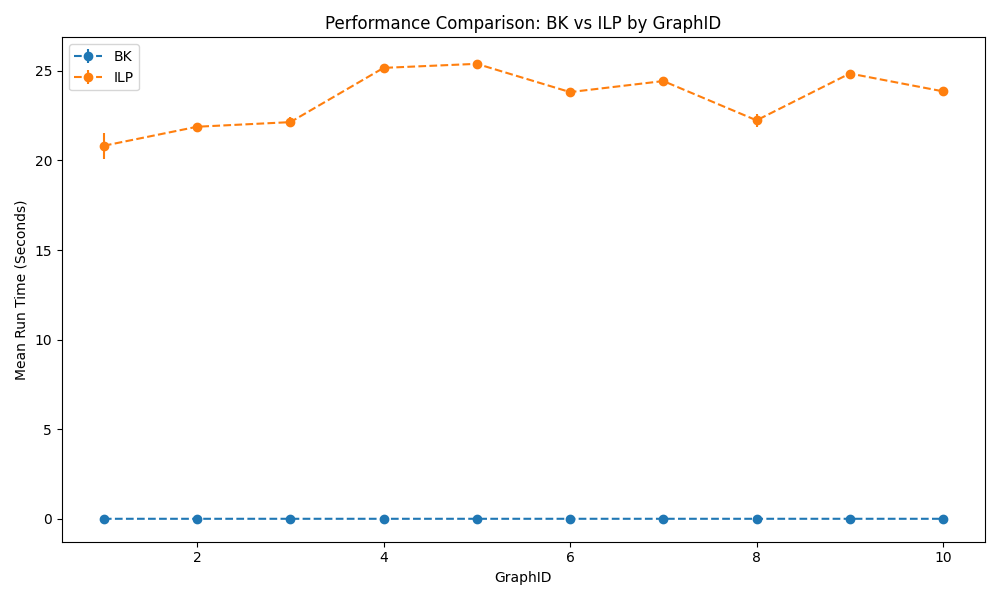
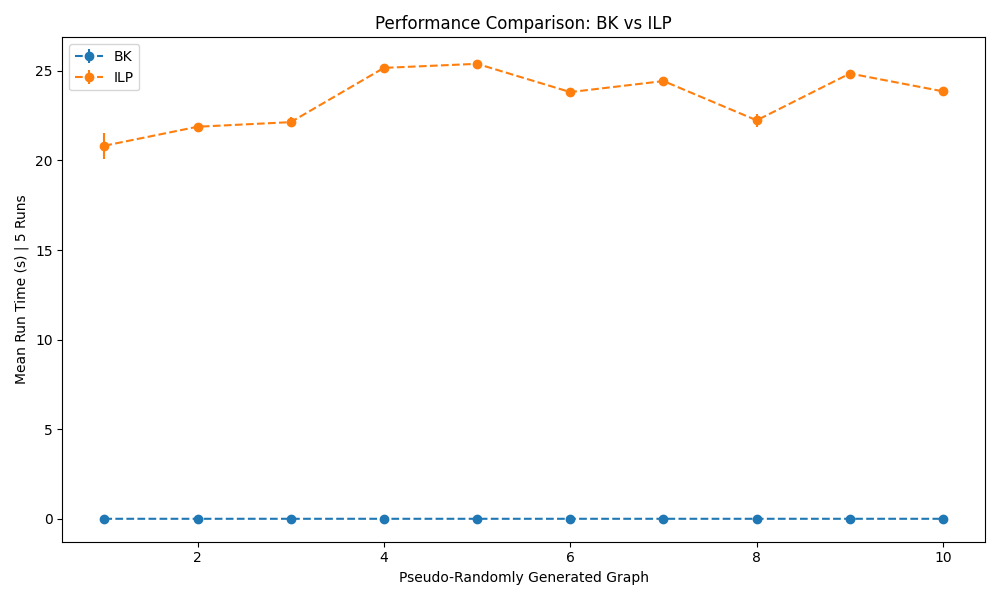
cleaned up

diff --git a/HW7/plot/plot_part2.py b/HW7/plot/plot_part2.py
@@ -1,14 +1,10 @@
 #!/usr/bin/env python3
 import pandas as pd
 import matplotlib.pyplot as plt
-
-# Read the CSV file (make sure that 'data.csv' is in your working directory)
 df = pd.read_csv('part2_data.csv')
 
-# Group the data by GraphID and Method to calculate the mean and standard deviation of run times
 grouped = df.groupby(['GraphID', 'Method'])['TimeSeconds'].agg(['mean', 'std']).reset_index()
 
-# Plot the results using error bars
 plt.figure(figsize=(10, 6))
 methods = grouped['Method'].unique()
 for method in methods:
@@ -16,9 +12,9 @@ for method in methods:
     plt.errorbar(sub_df['GraphID'], sub_df['mean'], yerr=sub_df['std'],
                  marker='o', linestyle='--', label=method)
 
-plt.xlabel('GraphID')
-plt.ylabel('Mean Run Time (Seconds)')
-plt.title('Performance Comparison: BK vs ILP by GraphID')
+plt.xlabel('Pseudo-Randomly Generated Graph')
+plt.ylabel('Mean Run Time (s) | 5 Runs')
+plt.title('Performance Comparison: BK vs ILP')
 plt.legend()
 plt.tight_layout()
 # plt.show()

diff --git a/HW7/README.md b/HW7/README.md
@@ -25,6 +25,8 @@ python3 ilp.py graph.txt
 
 ## Results
 
+Both algorithms were run on each graph 5 times. Gurobi was used with 16 cores on my local machine. 
+
 ![Part b runtime](plot/part2_plot.png)
 
 ## Testing
